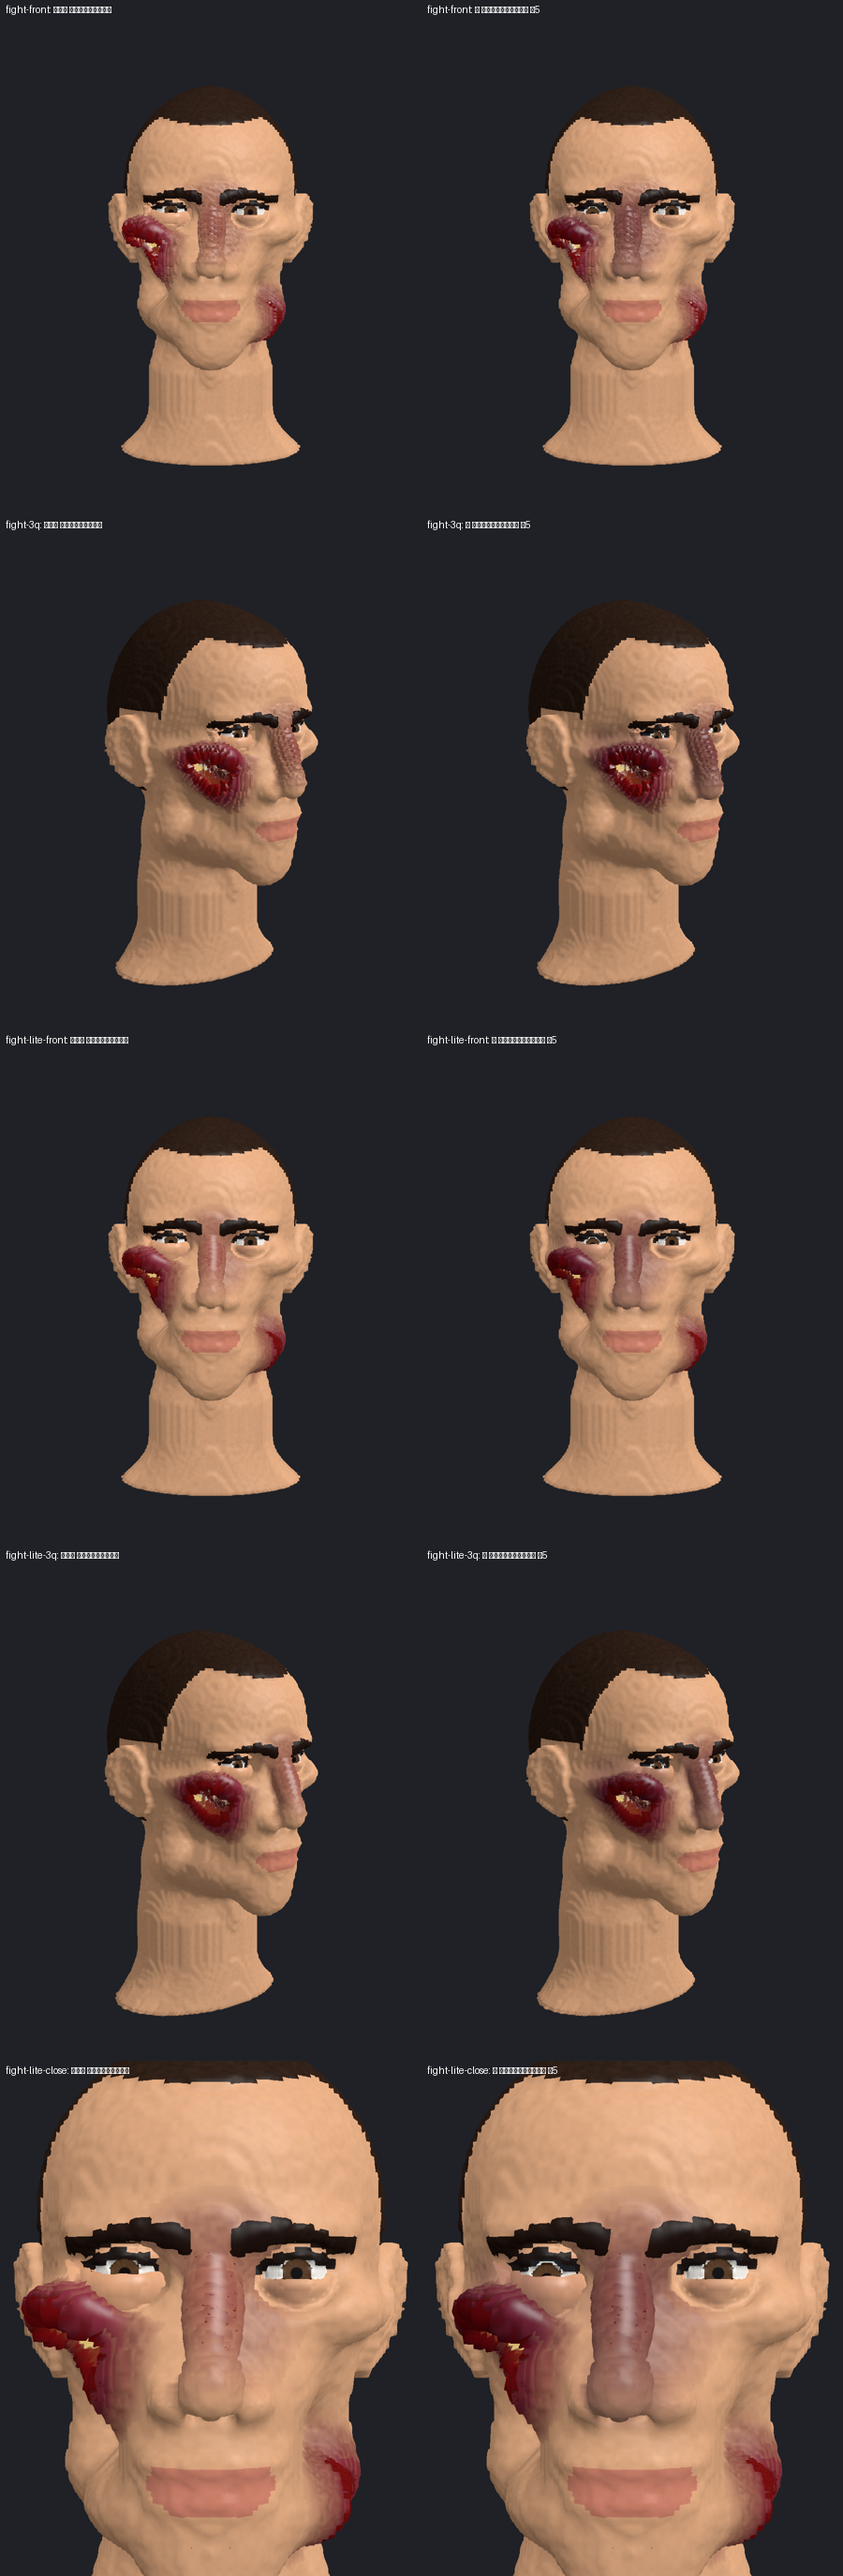
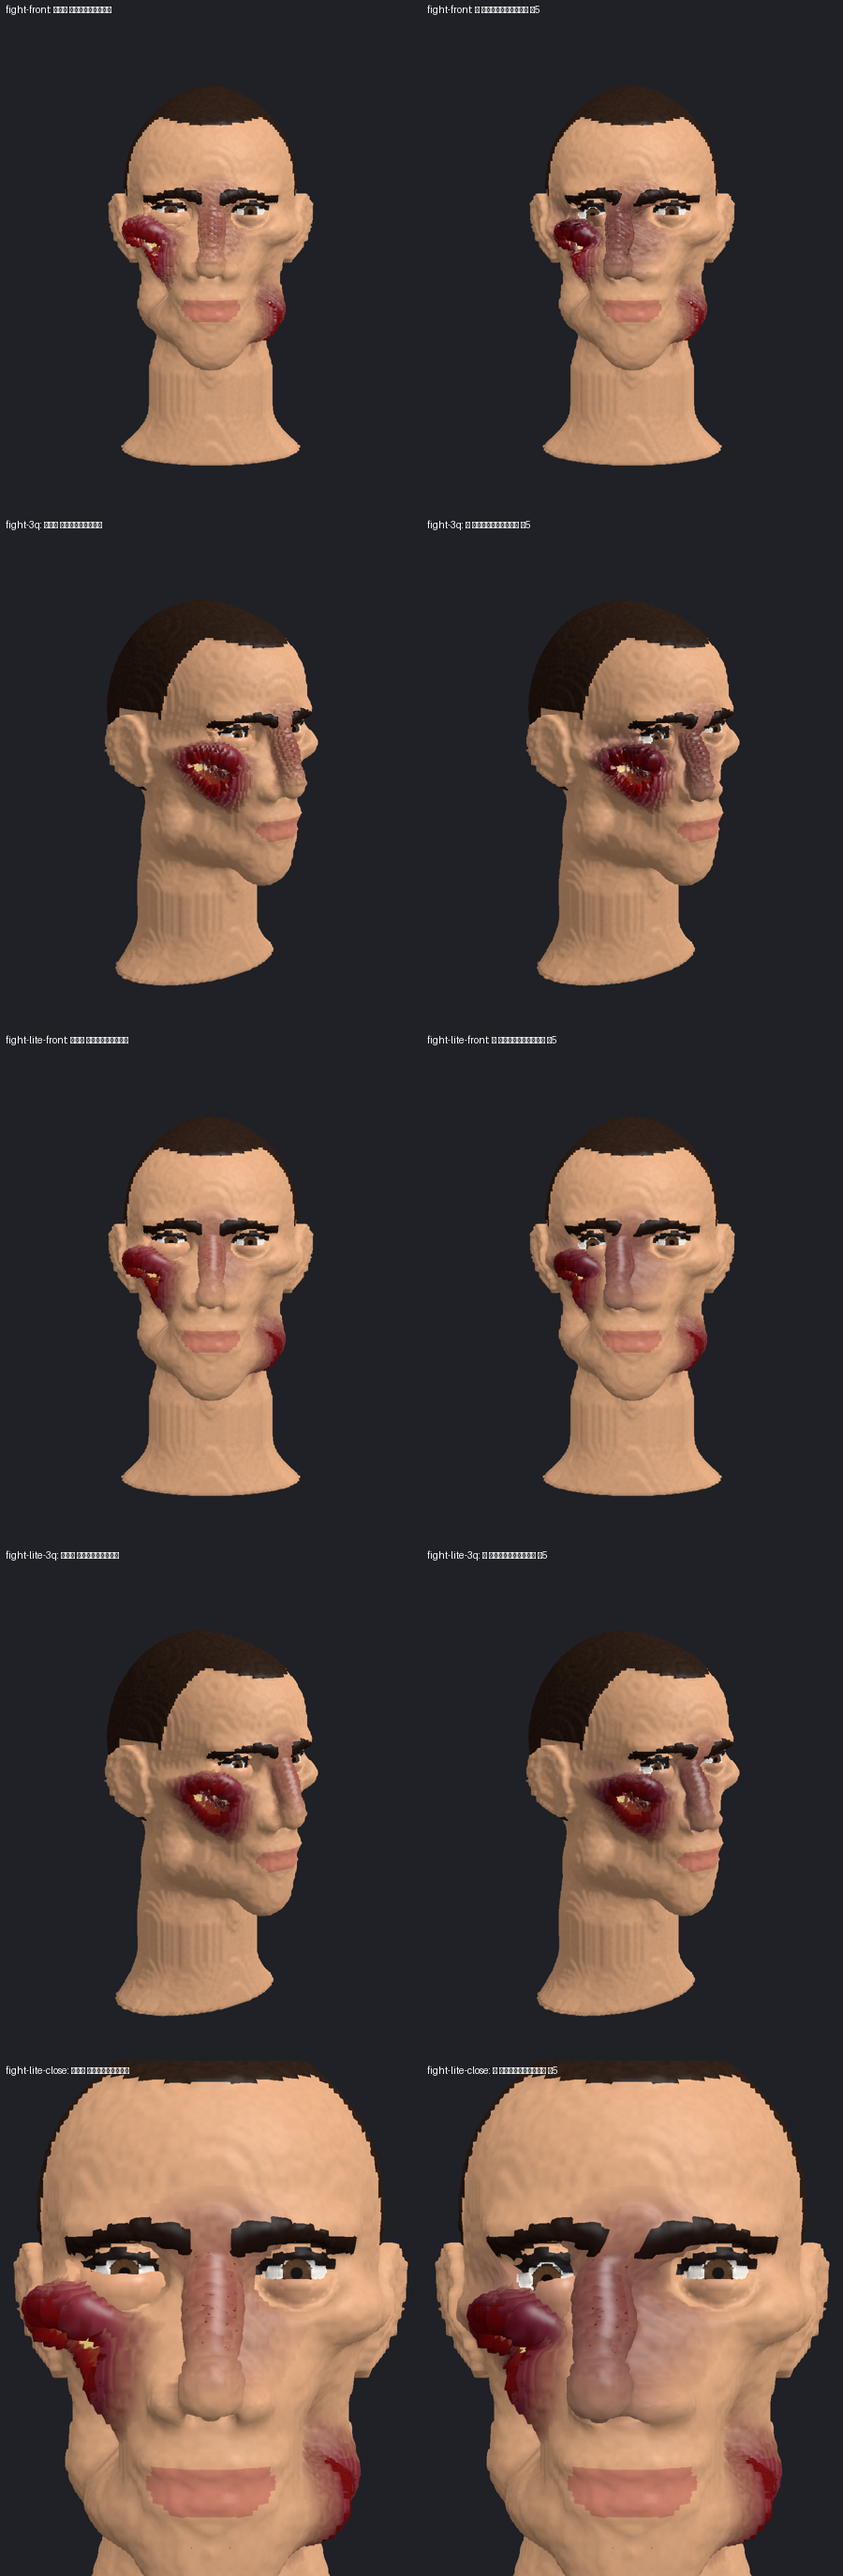
Часть 9: смещение отломков заметно с расстояния боя — лицо ×2,6, свод ×1,5, глаз и дно глазницы ×1,2, при Ле Фор III глаз уходит вместе с лицом; снимки anatomy-b9 пересняты, тесты 52/0/0

diff --git a/Unity/Assets/Probe/Runtime/Anatomy/AnatBones.cs b/Unity/Assets/Probe/Runtime/Anatomy/AnatBones.cs
@@ -156,7 +156,7 @@ namespace VoxProbe
             }
             r.level = lv; r.d = Disp(r, dir);
             if (b == Maxilla) upperShift = r.d;
-            if (b == OrbitL || b == OrbitR) eyeShift[b == OrbitL ? 0 : 1] = new float3(0, -0.22f, -0.25f) * Mul(lv);
+            if (b == OrbitL || b == OrbitR) eyeShift[b == OrbitL ? 0 : 1] = new float3(0, -0.22f, -0.25f) * Mul(lv) * ShowEye;
             if (b == JawAngle || b == JawBody) for (int t = 0; t < a.teeth.Length; t++)
                 if (a.toothDefs[t].upper == 0 && Member(b, r.side, lv, a.toothDefs[t].c, AnatPart.Mandible, AnatMat.Compact, 0, r.c)) lowerShift[t] = r.d;
             log.Add(time.ToString("0.0", System.Globalization.CultureInfo.InvariantCulture) + " с: перелом — " + Label(r) + (r.slot < 0 ? " (без смещения: предел отломков)" : ""));
@@ -169,8 +169,17 @@ namespace VoxProbe
 
         static float Mul(int lv) => lv <= 1 ? 1f : lv == 2 ? 1.5f : 1.9f;
 
+        /// Усиление смещения ради читаемости с расстояния боя (замечание Руслана 25.11.2026): лицо ×Show, свод ×ShowVault.
+        public const float Show = 2.6f, ShowVault = 1.5f, ShowEye = 1.2f;   // глаз и дно глазницы — меньше: сильнее глаз уходит из век и открывает тёмную глазницу
+
         /// Смещение отломка, см в рамке головы.
         static float3 Disp(Brk r, float3 dir)
+        {
+            bool vault = r.bone == Frontal || r.bone == Occipital || r.bone == ParL || r.bone == ParR || r.bone == TempL || r.bone == TempR;
+            return Disp0(r, dir) * (vault ? ShowVault : r.bone == OrbitL || r.bone == OrbitR ? ShowEye : Show);
+        }
+
+        static float3 Disp0(Brk r, float3 dir)
         {
             float m = Mul(r.level), sx = r.side == 0 ? 1 : -1;
             switch (r.bone)

diff --git a/Unity/Assets/Probe/Runtime/Anatomy/AnatView.cs b/Unity/Assets/Probe/Runtime/Anatomy/AnatView.cs
@@ -148,7 +148,9 @@ namespace VoxProbe
                     rr.SetPropertyBlock(fmpb);
                 }
             }
-            Shift(a.eyeL, bones.eyeShift[0]); Shift(a.eyeR, bones.eyeShift[1]);
+            // Ле Фор III уносит скулы и края глазниц — глаз уходит вместе с ними наполовину, иначе выпирает из запавшего лица
+            float3 lf = bones.Level(AnatBones.Maxilla) >= 3 ? bones.upperShift * 0.6f : 0;
+            Shift(a.eyeL, bones.eyeShift[0] + lf); Shift(a.eyeR, bones.eyeShift[1] + lf);
             for (int t = 0; t < a.teeth.Length; t++) Shift(a.teeth[t], a.toothDefs[t].upper == 1 ? bones.upperShift : bones.lowerShift[t]);
         }
         void Shift(AnatGrid g, float3 dcm)
